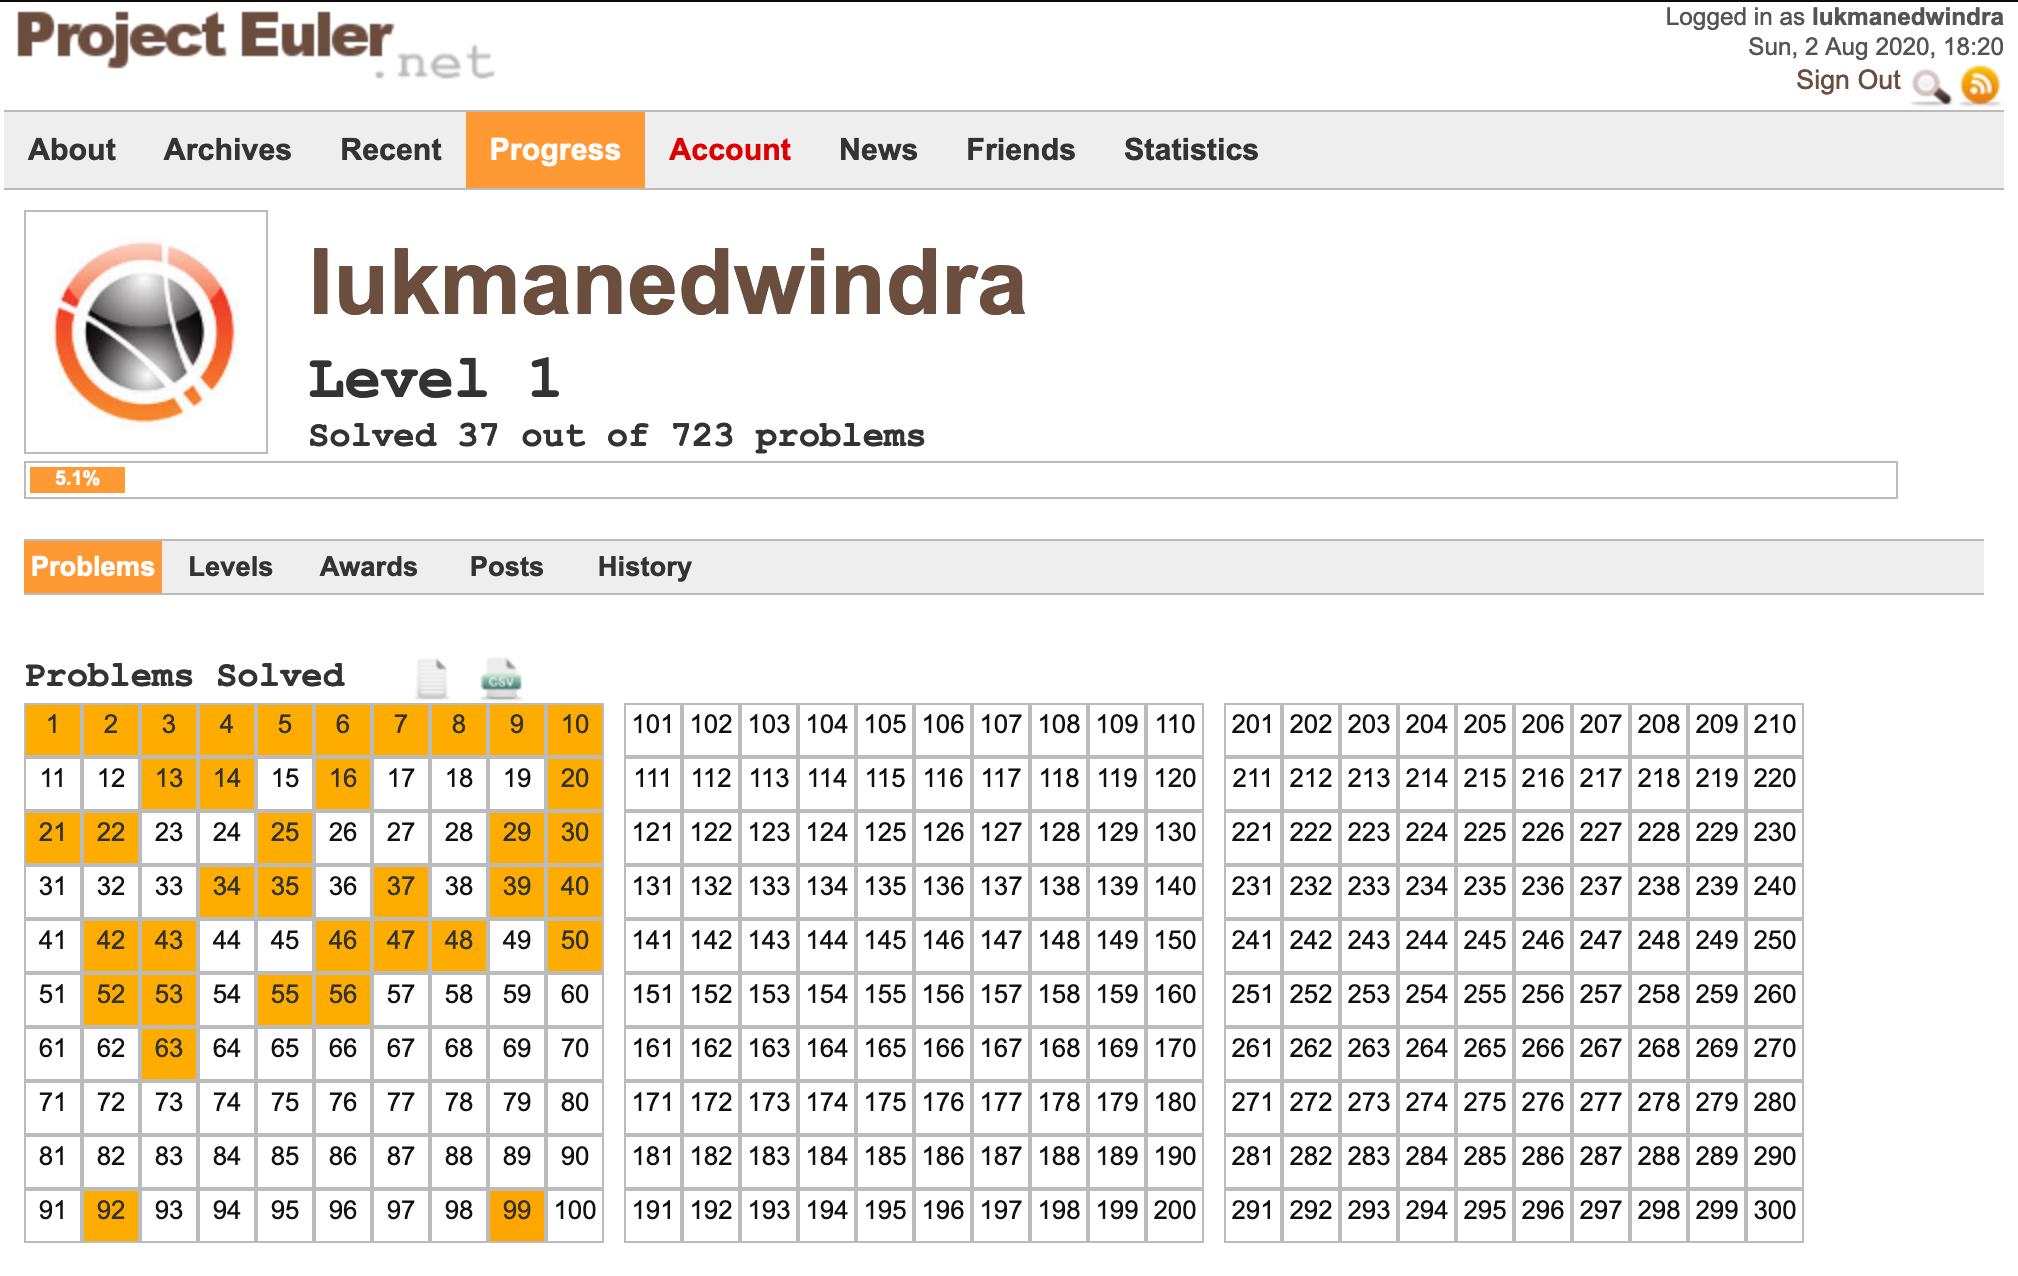
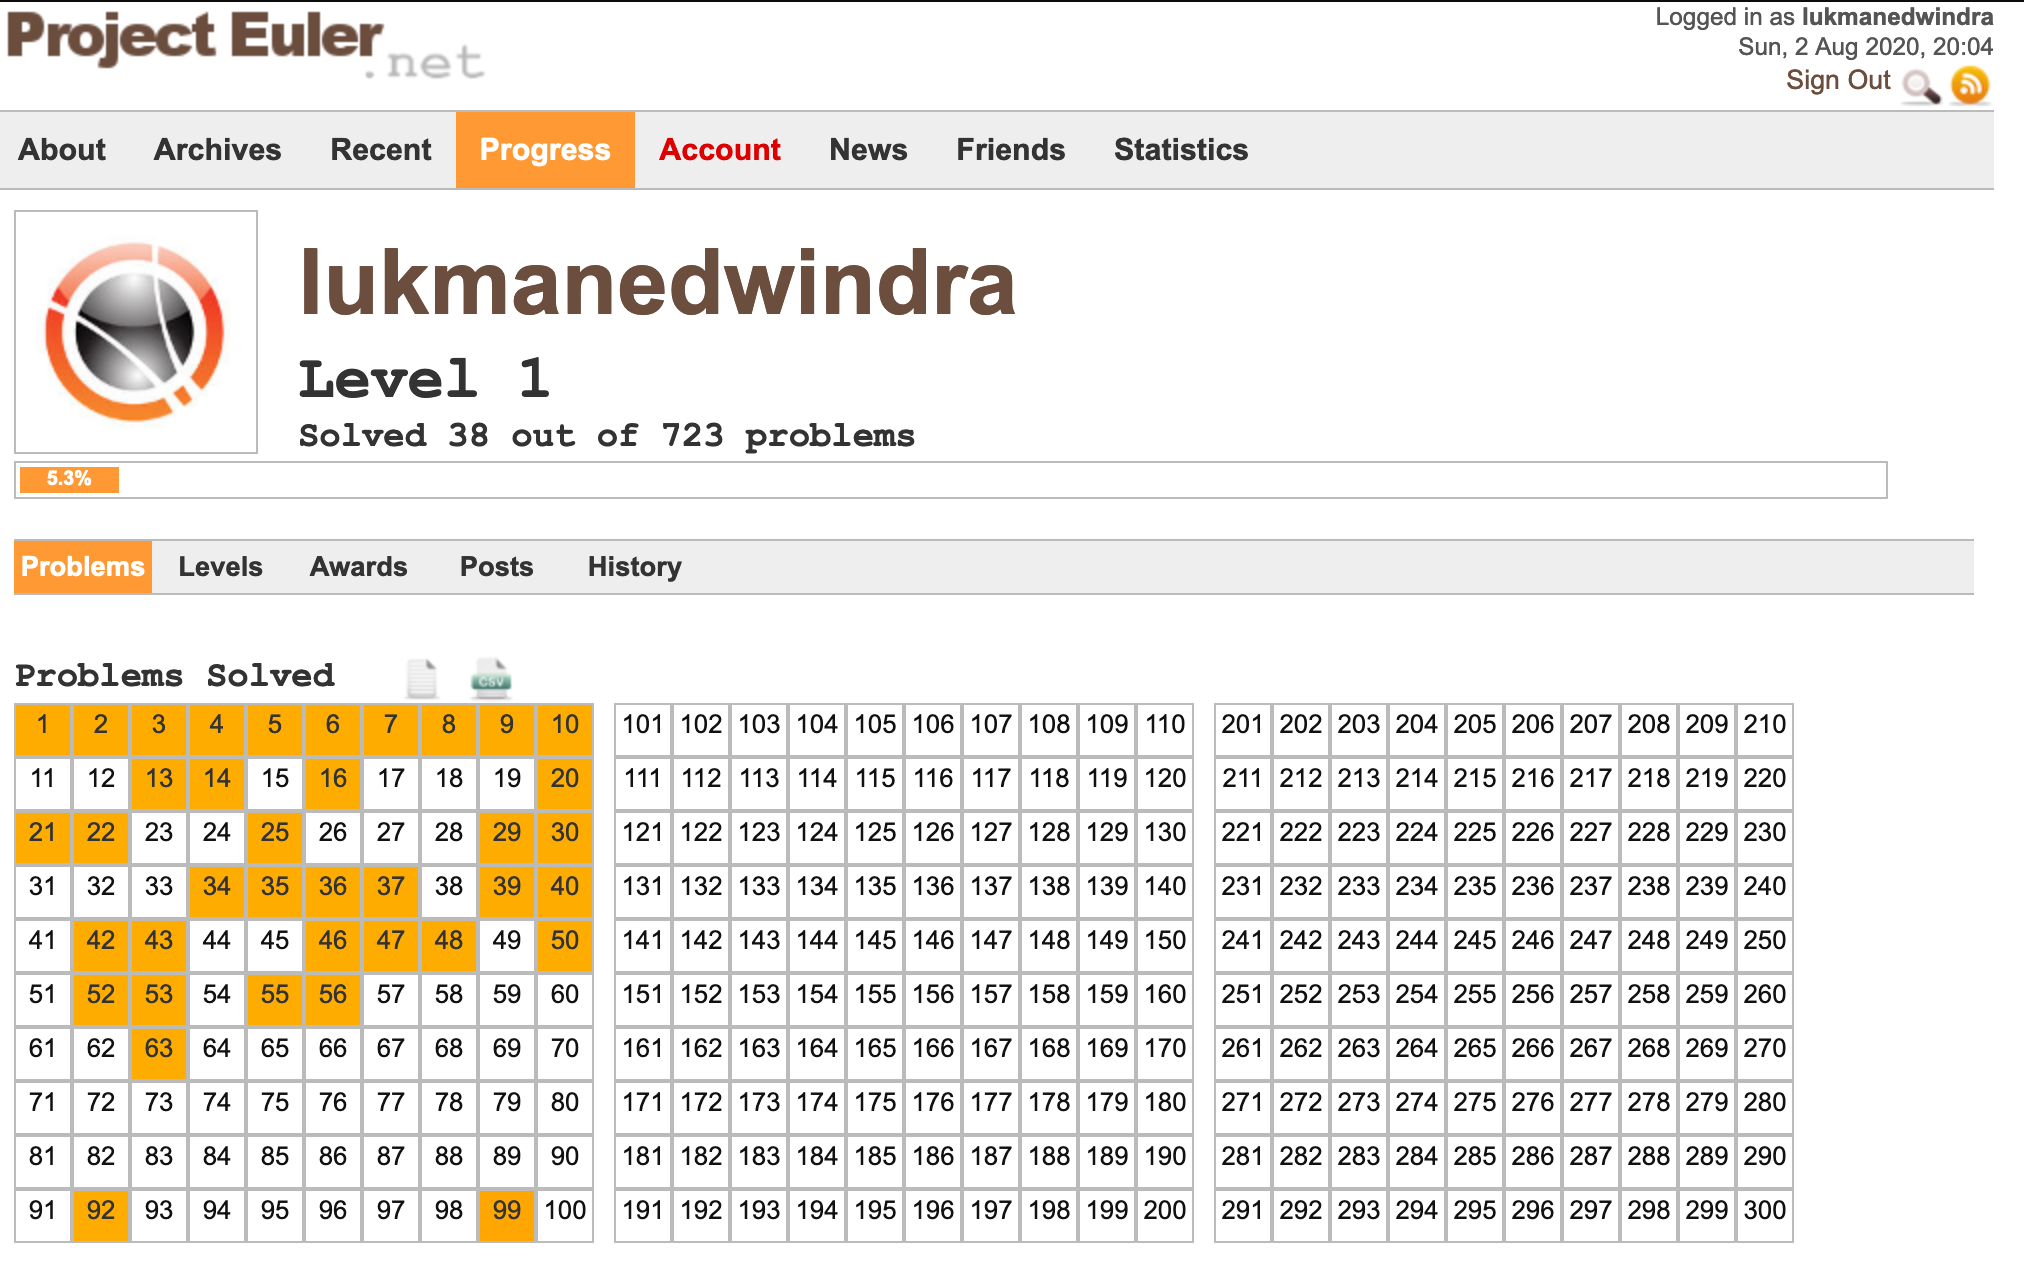
Solved problem 38

diff --git a/project_euler.py b/project_euler.py
@@ -303,7 +303,24 @@ class Problems:
         fibonacci = len(fibonacci[1:])
 
         return fibonacci
-    
+
+    def problem_thirty_six(self):
+        """
+        The decimal number, 585 = 10010010012 (binary), is palindromic in both
+        bases. Find the sum of all numbers, less than one million, which are
+        palindromic in base 10 and base 2. (Please note that the palindromic
+        number, in either base, may not include leading zeros.)
+        """
+        # make a tuple that consists of base-10 and base-2 numbers < 1 million
+        array = [(x, bin(x)[2:]) for x in range(1, 1000000)]
+        # a function that detects whether or not a number is palindromic
+        is_palindrome = lambda x: str(x) == str(x)[::-1]
+        # list comprehension to get palindromes and sum them up
+        palindrome = [x[0] for x in num if is_palindrome(x[0]) == True and is_palindrome(x[1]) == True]
+        answer = sum(palindrome)
+
+        return answer
+
     def problem_thirty_seven(self):
         """
         The number 3797 has an interesting property. Being prime itself, it is

diff --git a/test_project_euler.py b/test_project_euler.py
@@ -39,6 +39,11 @@ class TestProblemOne(unittest.TestCase):
 
         self.assertEqual(answer, 4782)
 
+    def test_problem_thirty_six(self):
+        answer = self.project_euler.problem_thirty_six()
+
+        self.assertEqual(answer, 872187)
+
     def test_problem_thirty_seven(self):
         answer = self.project_euler.problem_thirty_seven()
 

diff --git a/README.md b/README.md
@@ -3,7 +3,7 @@
 # About
 Hello world :earth_asia:! Are you into mathematics and computer programming? Then [<strong>`Project Euler`</strong>](https://projecteuler.net/about) is a good platform for you. They say the users are allowed to share and discuss the first 100 problems outside of their platform. So here I am. :sunglasses:
 
-As of August 2, 2020, I have solved 37 problems and I'm still enjoying it. :beers:
+As of August 2, 2020, I have solved 38 problems and I'm still enjoying it. :beers:
 
 ![latest-progress](./img/latest-progress.png)
 
